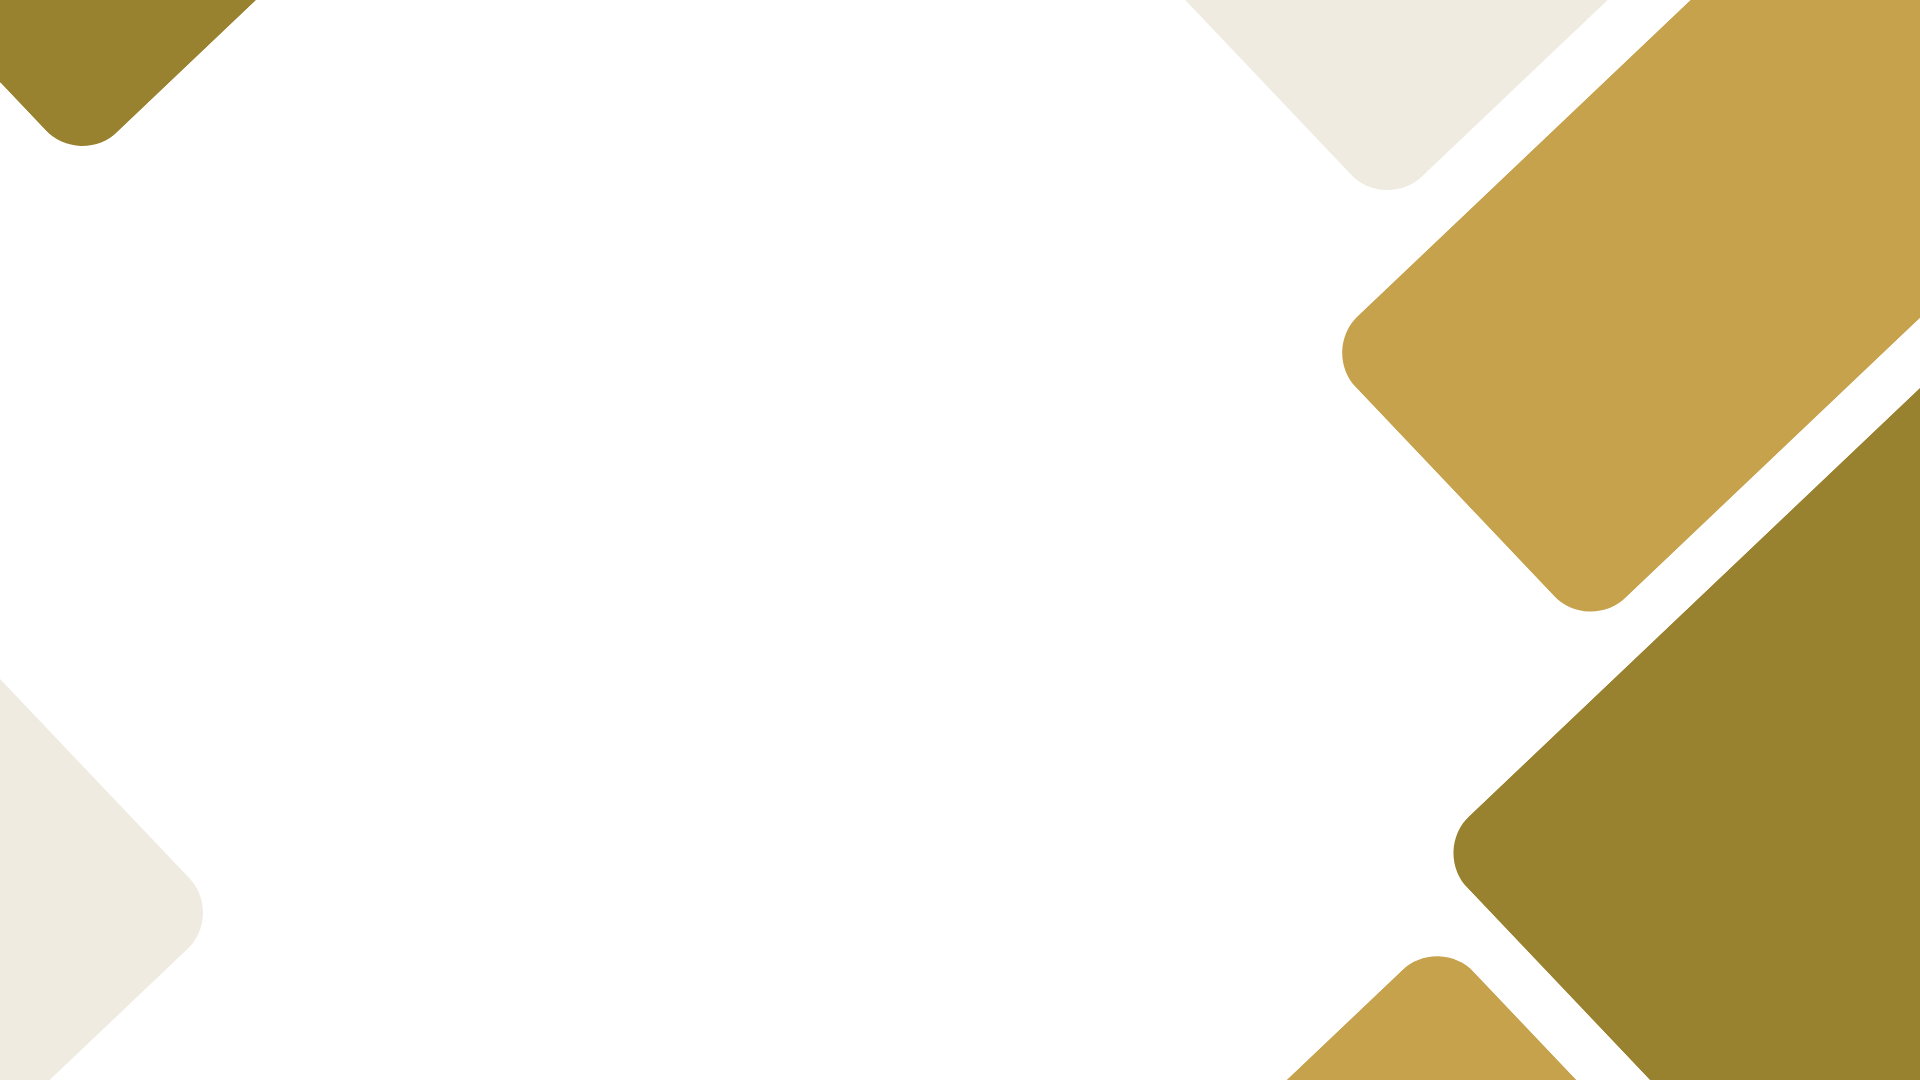
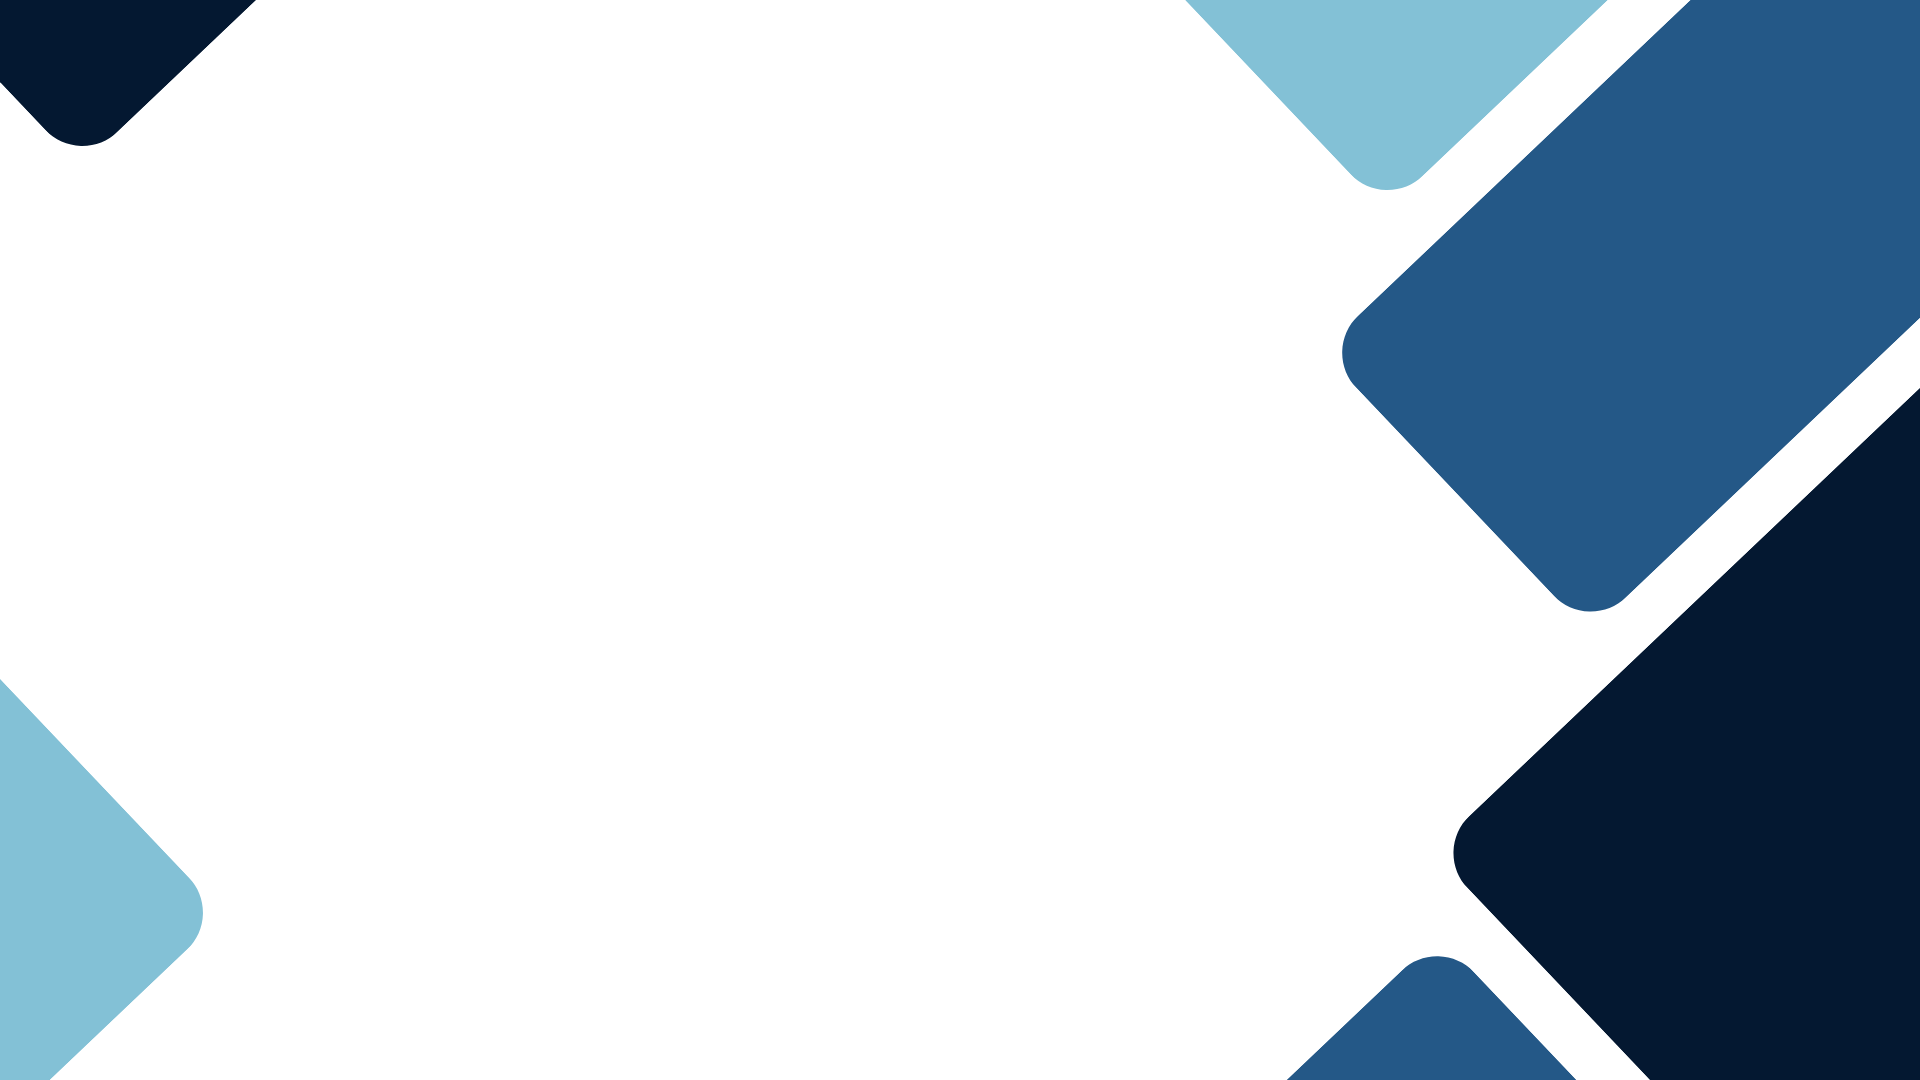
dist1

Changed region(s): [[0.625, 0.0, 1.0, 1.0], [0.0, 0.6417, 0.125, 1.0], [0.0, 0.0, 0.125, 0.1528]]

diff --git a/src/app/register/register.css b/src/app/register/register.css
@@ -29,7 +29,7 @@ h2 {
   font-size: 32px;
   font-weight: 800;
   margin-bottom: 25px;
-  background: linear-gradient(90deg, #c7a34e, #99822f);
+  background: linear-gradient(90deg, #245987, #041830);
   -webkit-background-clip: text;
   -webkit-text-fill-color: transparent;
 }
@@ -50,6 +50,9 @@ width: 143px;
 width: 150px;
     height: 44px;
   object-fit: contain;
+}
+.topheader .logo{
+  height: 88px;
 }
 @media (max-width: 600px) {
 .logoe{
@@ -93,7 +96,7 @@ input, textarea { padding: 8px; border: 1px solid #ccc; border-radius: 8px; }
   margin-bottom: 25px;
 }
 .member-box:hover {
-  border-color: #99822f;
+  border-color: #041830;
   box-shadow: 0 6px 20px rgba(95, 81, 0, 0.1);
 }
 
@@ -112,20 +115,20 @@ input, textarea { padding: 8px; border: 1px solid #ccc; border-radius: 8px; }
   flex: 1;
   transition: 0.3s;
 }
-.add-btn { background: #ede9df; color: #99822f; }
+.add-btn { background: #ede9df; color: #041830; }
 .add-btn:hover { background: #d6eaff; }
-.remove-btn { background: #ffe5e5; color: #9f862b; }
+.remove-btn { background: #ffe5e5; color: #041830; }
 .remove-btn:hover { background: #ffcccc; }
-.review-btn { background: #99822f; color: white; border: 2px solid #dfe3eb; }
-.review-btn:hover { background: #eef2f9; color: #99822f; }
-.submit-btn { background: linear-gradient(90deg, #c7a34e, #99822f); color: #fff; }
+.review-btn { background: #041830; color: white; border: 2px solid #dfe3eb; }
+.review-btn:hover { background: #eef2f9; color: #041830; }
+.submit-btn { background: linear-gradient(90deg, #245987, #041830); color: #fff; }
 .submit-btn:hover { opacity: 0.9; transform: translateY(-2px); }
-.draft-btn { background: #f0f0f0; color: #99822f; }
+.draft-btn { background: #f0f0f0; color: #041830; }
 .draft-btn:hover { background: #e0e0e0; }
 
 /* ---------- SUCCESS / ERROR ---------- */
 .success { margin-top: 20px; padding: 14px; border-radius: 12px; background: #d4f8dd; color: #18753c; }
-.error { margin-top: 20px; padding: 14px; border-radius: 12px; background: #ffe3e3; color: #99822f; }
+.error { margin-top: 20px; padding: 14px; border-radius: 12px; background: #ffe3e3; color: #041830; }
 @media (max-width: 408px) {
 
 .form-header h2{

diff --git a/src/app/landing/landing.css b/src/app/landing/landing.css
@@ -2,7 +2,8 @@
   position: relative;
   width: 100%;
   height: 97vh;
-  background: url('../../assets/hero-bg.png') center/cover no-repeat;
+  background-color: #04183178;
+ /* background: url('../../assets/hero-bg.png') center/cover no-repeat;*/
   display: flex;
   justify-content: center;
   align-items: center;
@@ -15,7 +16,7 @@
   position: absolute;
   width: 100%;
   height: 100%;
-  background:#c6a24d5c;
+  background:#09364bab;
   backdrop-filter: blur(3px);
 }
 
@@ -24,7 +25,7 @@
 .content {
   position: relative;
   text-align: center;
-  color: #644d00;
+  color: #ffffff;
   max-width: 800px;
   padding: 2%;
  padding-bottom: 20%;
@@ -46,7 +47,7 @@
 
 /* Cool button */
 .register-btn {
-  background: linear-gradient(90deg,  #9d7e0d, #99822f);
+  background: linear-gradient(90deg,  #041830, #245987);
   color: white;
   border: none;
   padding: 14px 32px;
@@ -76,7 +77,7 @@
 }
 /* Challenge logo */
 .challenge-logo {
-  width: 100px;
+  width: 120px;
 
 }
 
@@ -90,7 +91,7 @@
 .content {
   position: relative;
   text-align: center;
-  color: #644d00;
+  color: #ffffff;
   max-width: 800px;
   padding: 2%;
   padding-bottom: 10%;
@@ -104,11 +105,13 @@
   left: 50%;
   transform: translateX(-50%);
   width: 95%;
-
   display: flex;
   justify-content: space-between;
   align-items: center;
   gap: 20px;
+}
+.partner-logo .sec{
+  max-width: 146px;
 }
 
 /* Each group */
@@ -116,8 +119,8 @@
 .sponsored {
   display: flex;
   align-items: center;
-  gap: 12px;
-  flex-wrap: wrap;
+ 
+ 
 }
 
 /* Titles */
@@ -126,7 +129,7 @@
   font-size: 0.9rem;
   letter-spacing: 2px;
   font-weight: 600;
-  color: #5b4600;
+  color: #ffffff;
   margin-right: 6px;
 }
 
@@ -198,7 +201,7 @@
   }
 
   .challenge-logo {
-              width: 47px;
+              width: 78px;
         position: relative;
         top: 19px;
   }

diff --git a/src/app/landing/landing.html b/src/app/landing/landing.html
@@ -5,10 +5,11 @@
   <!-- Center Content -->
   <div class="content">
       <!-- Top Left Logo -->
-  <img src="/assets/LogoTab.png" class="challenge-logo" alt="Challenge Logo">
+  <img src="/assets/Tech.png" class="challenge-logo" alt="Challenge Logo">
 
-    <h1 class="title">Egypt Semiconductors Challenge</h1>
-    <p class="subtitle">As a Part of Egypt TECH Challenges</p>
+    <h1 class="title">Tech Makers Challenge</h1>
+    <p class="subtitle">Mobility is not just movement… it’s freedom, access, and opportunity.
+Designing smarter solutions today to move people better tomorrow. </p>
 
     <button class="register-btn" routerLink="/register">
        Register Now
@@ -19,13 +20,13 @@
 <div class="partners">
 
   <div class="organized">
-    <span>Organized By</span>
-    <img src="assets/eitesal.png" class="partner-logo" alt="Organizer">
-    <img src="assets/spo.png" class="partner-logo" alt="Organizer">
+    <span >Organized By</span>
+    <img src="assets/eitesalw.png" class="partner-logo" alt="Organizer">
+    <img src="assets/Buddles.png" class="partner-logo" alt="Organizer">
   </div>
 
   <div class="sponsored">
-    <span>Main partner</span>
+    <span >Main partner</span>
     <img src="assets/spo3.png" class="partner-logo sponsor" alt="Sponsor">
   </div>
 

diff --git a/src/app/register/register.html b/src/app/register/register.html
@@ -1,6 +1,6 @@
 <div class="form-container">
 <div class="topheader">
-    <img  src="/assets/Logo.png" alt="Logo" class="logo main">
+    <img  src="/assets/Tech.png" alt="Logo" class="logo main">
   
 </div>
   <!-- HEADER WITH LOGO -->
@@ -68,7 +68,35 @@
 
 
 
-  
+  <h3>General Information</h3>
+
+<div class="form-group">
+  <label>Where did you hear about us? *</label>
+
+  <select formControlName="hearAbout">
+    <option value="">Select</option>
+    <option>Facebook</option>
+    <option>LinkedIn</option>
+    <option>University</option>
+    <option>Friend</option>
+    <option>Instructor</option>
+    <option>Event</option>
+    <option>Other</option>
+  </select>
+
+  <small *ngIf="form.get('hearAbout')?.touched && form.get('hearAbout')?.invalid">
+    This field is required
+  </small>
+</div>
+
+<div class="form-group" *ngIf="form.get('hearAbout')?.value === 'Other'">
+  <label>Please specify *</label>
+  <input formControlName="hearAboutOther">
+
+  <small *ngIf="form.get('hearAboutOther')?.touched && form.get('hearAboutOther')?.invalid">
+    Please tell us where you heard about us
+  </small>
+</div>
 
     <!-- UNIVERSITY & TEAM INFO -->
     <div class="form-group">

diff --git a/src/app/register/register.ts b/src/app/register/register.ts
@@ -48,6 +48,8 @@ genders: string[] = ['Male', 'Female'];
       supervisorName: ['', Validators.required],
       supervisorEmail: ['', [Validators.required, Validators.email]],
      teamGovernorate: ['', Validators.required],
+     hearAbout: ['', Validators.required],   // ⭐ NEW
+  hearAboutOther: [''],                   // ⭐ NEW
       members: this.fb.array([])
     },
     {
@@ -68,6 +70,19 @@ ngOnInit(): void {
     this.members.clear();
     stateData.members?.forEach((m: any) => this.members.push(this.createMember(m)));
   }
+  this.form.get('hearAbout')?.valueChanges.subscribe(value => {
+  const otherControl = this.form.get('hearAboutOther');
+
+  if (value === 'Other') {
+    otherControl?.setValidators([Validators.required]);
+  } else {
+    otherControl?.clearValidators();
+    otherControl?.setValue('');
+  }
+
+  otherControl?.updateValueAndValidity();
+});
+
 }
 
 

diff --git a/src/app/review/review.css b/src/app/review/review.css
@@ -45,7 +45,7 @@
   font-size: 22px;
   font-weight: 600;
   margin-bottom: 15px;
-  border-left: 5px solid #99822f;
+  border-left: 5px solid #245987;
   padding-left: 10px;
   color: #333;
 }
@@ -61,7 +61,7 @@
 .member-card h4 {
   font-size: 18px;
   margin-bottom: 15px;
-  color: #99822f;
+  color: #245987;
 }
 
 /* Confirmation Checkbox */
@@ -99,13 +99,13 @@
 }
 
 .confirm-btn {
-  background: #99822f;
+  background: #245887;
   color: white;
   font-weight: 600;
 }
 
 .confirm-btn:disabled {
-  background: #d3b76d;
+  background: #82bfd4;
   cursor: not-allowed;
 }
 
@@ -123,7 +123,7 @@
   margin-top: 20px;
   padding: 12px;
   background: #ffe3e3;
-  color: #99822f;
+  color: #245887;
   border-radius: 8px;
   font-weight: 600;
 }

diff --git a/src/app/review/review.html b/src/app/review/review.html
@@ -14,6 +14,7 @@
       <div><strong>Project Description:</strong> {{ data.projectDescription }}</div>
       <div><strong>Supervisor Name:</strong> {{ data.supervisorName }}</div>
       <div><strong>Supervisor Email:</strong> {{ data.supervisorEmail }}</div>
+        <div><strong>HereAboutUs</strong> {{ data.hearAbout }}</div>
       <div><strong>Governorate:</strong> {{ data.teamGovernorate }}</div>
       <div><strong>Number of Team Members:</strong> {{ data.membersCount }}</div>
     </div>

diff --git a/src/index.html b/src/index.html
@@ -2,11 +2,11 @@
 <html lang="en">
 <head>
   <meta charset="utf-8">
- <title>Egypt Semiconductors Challenge</title>
+ <title>Egypt TechMakers Challenge</title>
 
   <base href="/">
   <meta name="viewport" content="width=device-width, initial-scale=1">
-  <link rel="icon" type="image/x-icon" href="assets/LogoTab.png">
+  <link rel="icon" type="image/x-icon" href="assets/Tech.png">
 </head>
 <body>
   <app-root>

diff --git a/src/app/review/review.ts b/src/app/review/review.ts
@@ -55,7 +55,8 @@ constructor() {
           projectDescription: this.data.projectDescription,
           supervisorName: this.data.supervisorName,
           supervisorEmail: this.data.supervisorEmail,
-          Governorate: this.data.Governorate,
+          teamGovernorate: this.data.teamGovernorate,
+          hearAbout:this.data.hearAbout,
           submitted: true // mark as submitted
         }]);
 

diff --git a/src/app/supabase.client.ts b/src/app/supabase.client.ts
@@ -1,6 +1,6 @@
 import { createClient } from '@supabase/supabase-js';
 
 export const supabase = createClient(
-  'https://rykbdpayhuokkvzxwczc.supabase.co',
-  'sb_publishable_LSmObScaysLpukjPTxGvXg_1kMIvyCw'
+  'https://uvqctrjdtlrtxybusmoi.supabase.co',
+  'sb_publishable_C-eg6fnSKASxVmTuquYGpg_KzLtmPTh'
 );
